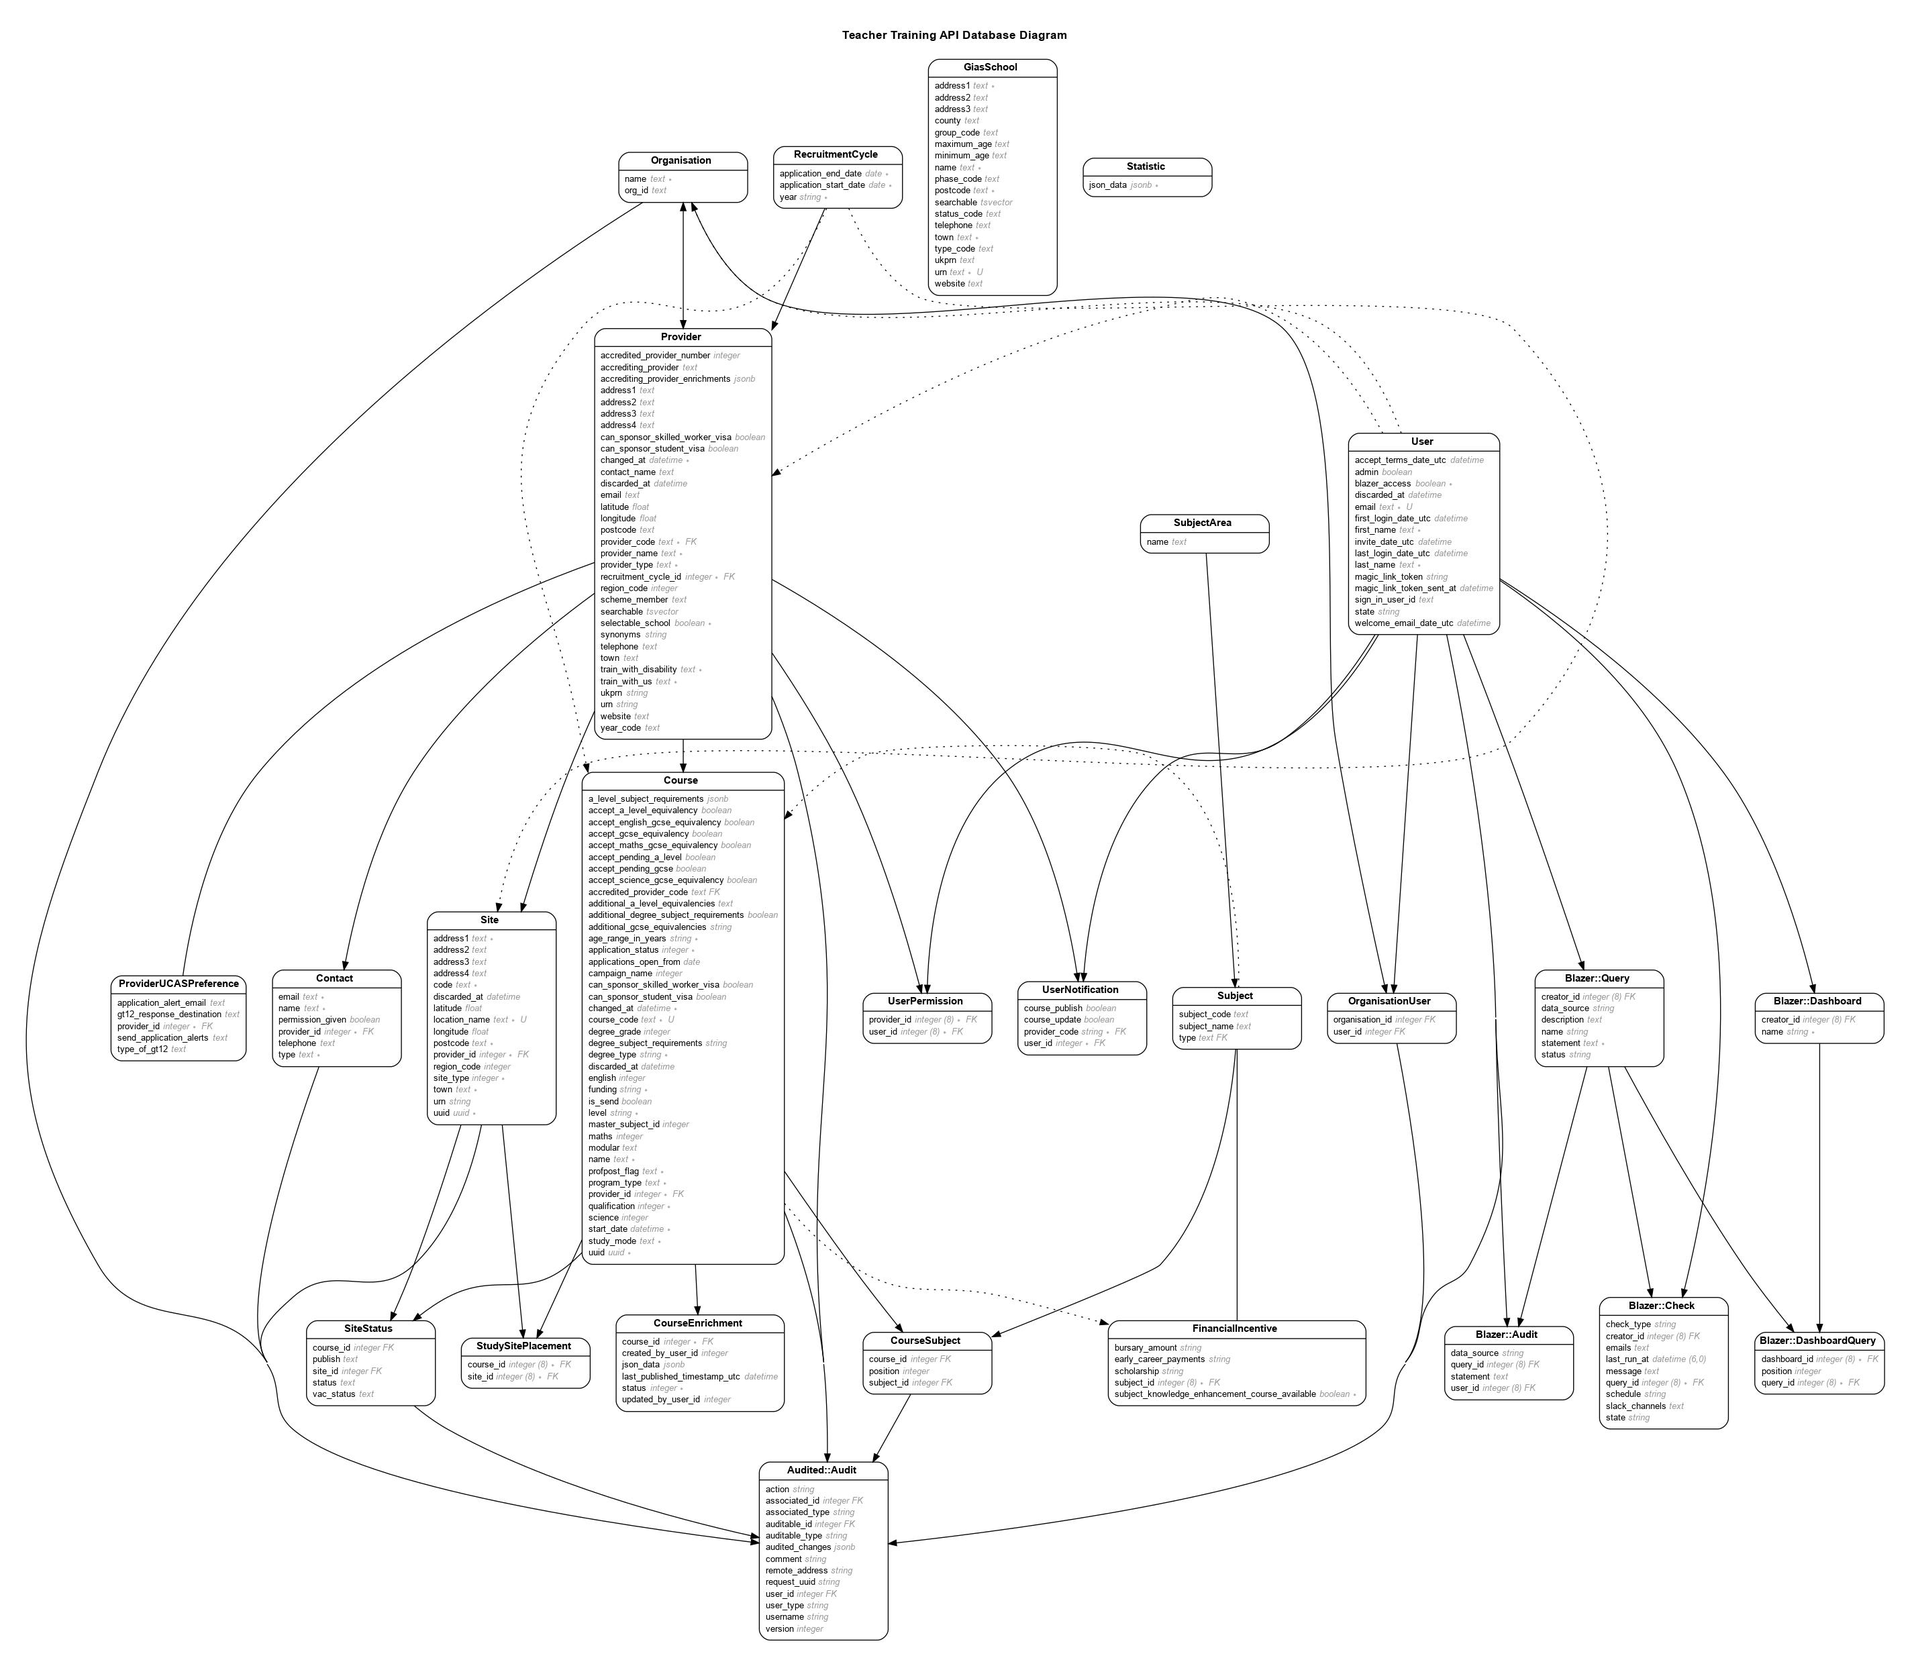
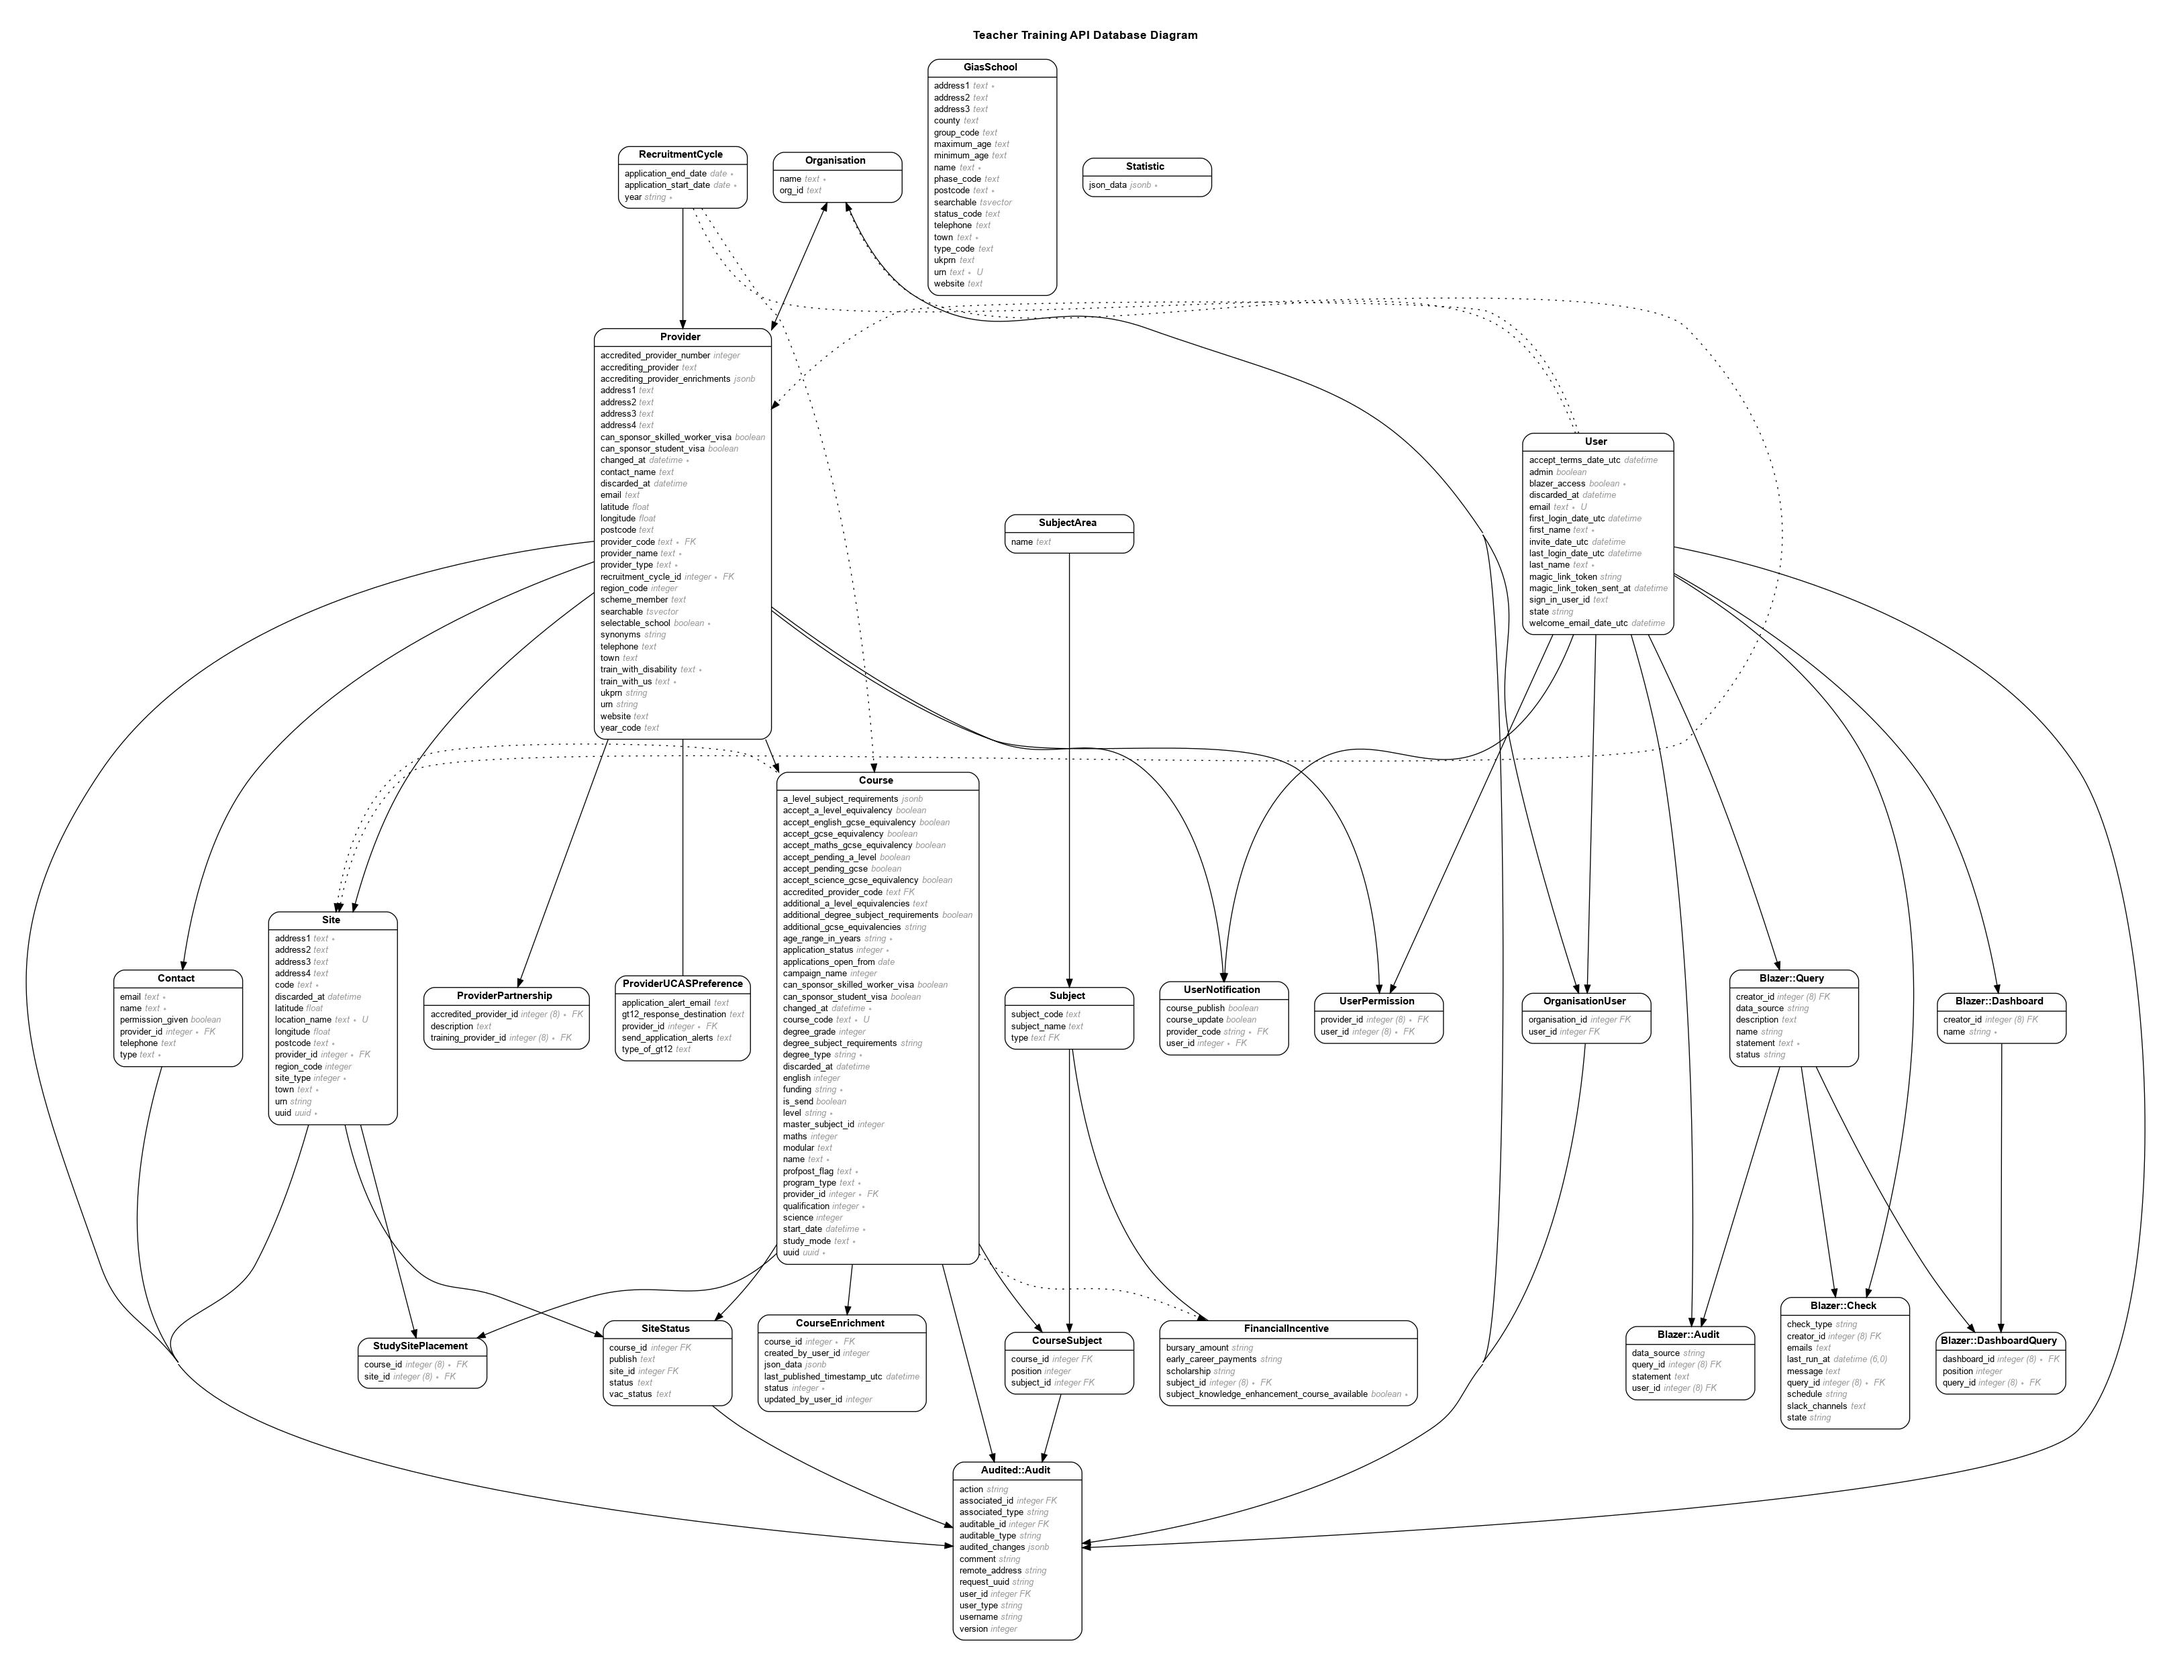
Migrate provider_partnership table

diff --git a/db/schema.rb b/db/schema.rb
@@ -10,7 +10,7 @@
 #
 # It's strongly recommended that you check this file into your version control system.
 
-ActiveRecord::Schema[7.2].define(version: 2024_11_26_104331) do
+ActiveRecord::Schema[7.2].define(version: 2024_11_29_151352) do
   # These are extensions that must be enabled in order to support this database
   enable_extension "btree_gin"
   enable_extension "btree_gist"
@@ -337,6 +337,17 @@ ActiveRecord::Schema[7.2].define(version: 2024_11_26_104331) do
     t.index ["recruitment_cycle_id", "provider_code"], name: "index_provider_on_recruitment_cycle_id_and_provider_code", unique: true
     t.index ["searchable"], name: "index_provider_on_searchable", using: :gin
     t.index ["synonyms"], name: "index_provider_on_synonyms", using: :gin
+  end
+
+  create_table "provider_partnership", force: :cascade do |t|
+    t.bigint "accredited_provider_id", null: false
+    t.bigint "training_provider_id", null: false
+    t.text "description"
+    t.datetime "created_at", null: false
+    t.datetime "updated_at", null: false
+    t.index ["accredited_provider_id", "training_provider_id"], name: "idx_on_accredited_provider_id_training_provider_id_7705512e33", unique: true
+    t.index ["accredited_provider_id"], name: "index_provider_partnership_on_accredited_provider_id"
+    t.index ["training_provider_id"], name: "index_provider_partnership_on_training_provider_id"
   end
 
   create_table "provider_ucas_preference", force: :cascade do |t|
